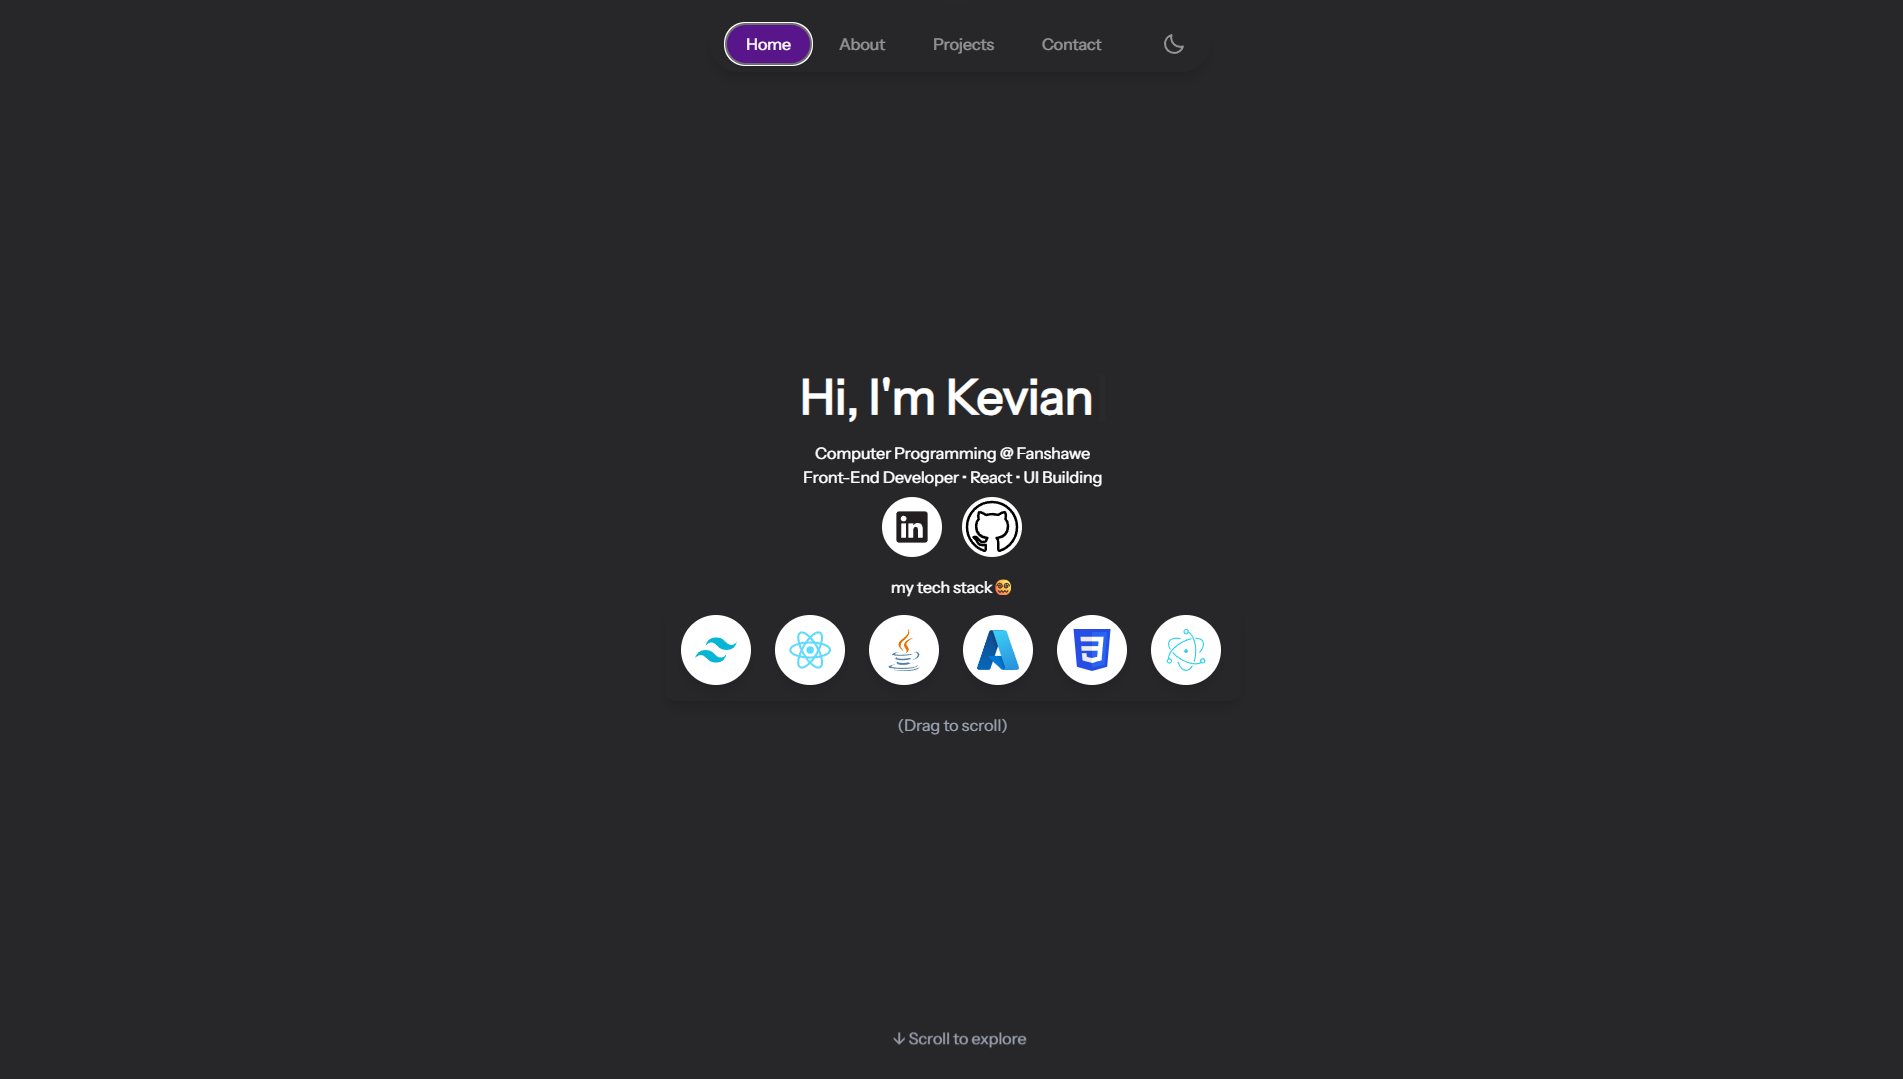
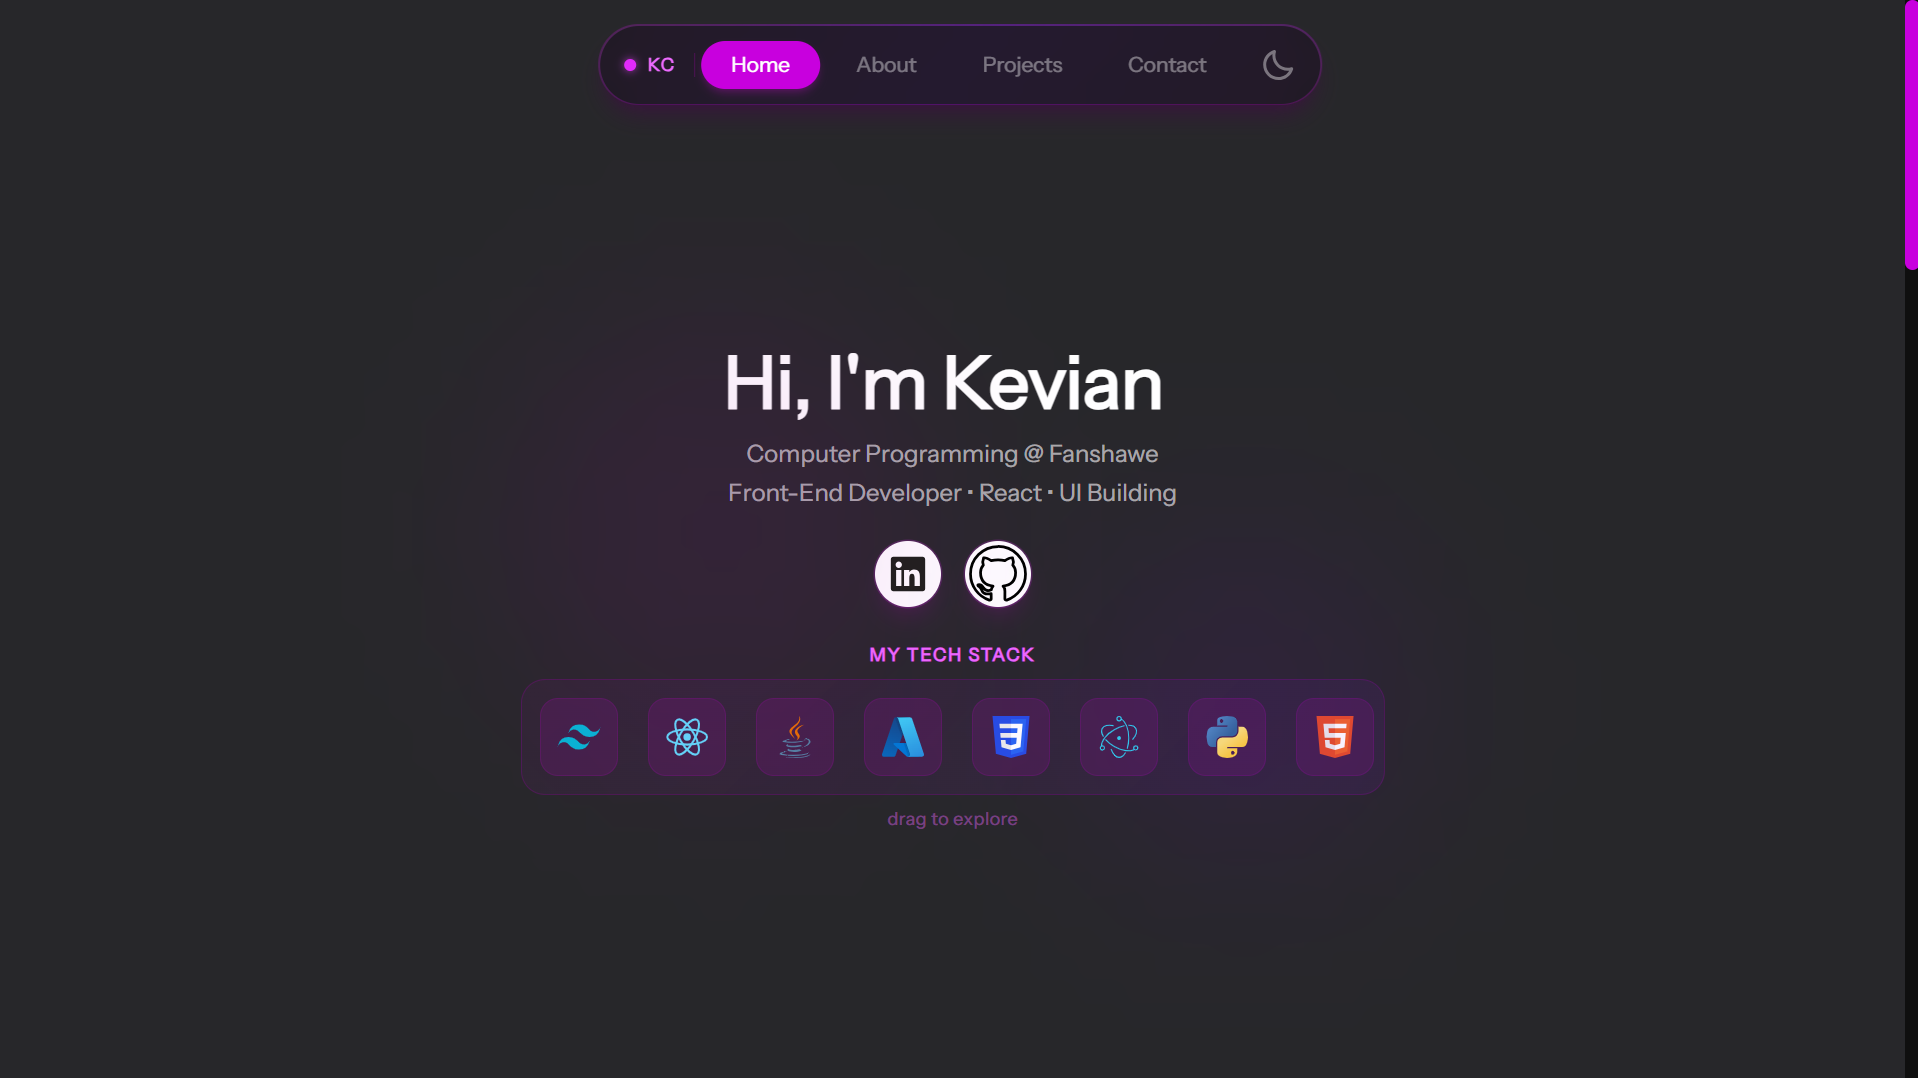
fixed techstack issues and updated pictures

diff --git a/src/components/Content.jsx b/src/components/Content.jsx
@@ -11,10 +11,24 @@ import linkedin from "/linkedin.svg"
 import github from "/github.svg"
 
 function Content({ themeClass, modeSelected, menuSelected, setMenuSelected, setModeSelected }) {
-    const isMobile = window.innerWidth < 1024
     const x = useMotionValue(0)
     const containerRef = useRef(null)
-    const limit = isMobile ? -1300 : -1050
+
+
+    const innerRef = useRef(null)
+    const [limit, setLimit] = useState(-1050)
+
+    useEffect(() => {
+        const calculate = () => {
+            if (containerRef.current && innerRef.current) {
+                setLimit(-(innerRef.current.scrollWidth - containerRef.current.offsetWidth))
+            }
+        }
+
+        setTimeout(calculate, 100)
+        window.addEventListener("resize", calculate)
+        return () => window.removeEventListener("resize", calculate)
+    }, [])
 
     const icons = [
         "tailwindcss", "react", "java", "azure", "css3",
@@ -89,7 +103,6 @@ function Content({ themeClass, modeSelected, menuSelected, setMenuSelected, setM
                     transition={{ duration: 0.5, delay: 0.4 }}
                     className="flex flex-col items-center gap-2 text-center"
                 >
-                    <p className="text-fuchsia-400 text-xs tracking-widest uppercase font-semibold">welcome to my portfolio</p>
                     <h1 className="text-3xl sm:text-5xl font-bold">
                         <Typewriter
                             words={["Hi, I'm Kevian"]}
@@ -141,7 +154,7 @@ function Content({ themeClass, modeSelected, menuSelected, setMenuSelected, setM
                         style={{ background: "linear-gradient(135deg, #a21caf11, #6b21a822)" }}
                     >
                         <motion.div
-                            className="flex gap-5 cursor-grab active:cursor-grabbing"
+                            className="flex w-500 gap-5 cursor-grab active:cursor-grabbing"
                             drag="x"
                             dragConstraints={{ left: limit, right: 0 }}
                             style={{ x }}
@@ -151,7 +164,7 @@ function Content({ themeClass, modeSelected, menuSelected, setMenuSelected, setM
                                     key={i}
                                     href={iconLinks[icon]}
                                     target="_blank"
-                                    className="min-w-[52px] h-[52px] flex items-center justify-center rounded-xl bg-fuchsia-900/30 border border-fuchsia-700/20 hover:border-fuchsia-500/50 transition-colors"
+                                    className="min-w-13 h-13 flex items-center justify-center rounded-xl bg-fuchsia-900/30 border border-fuchsia-700/20 hover:border-fuchsia-500/50 transition-colors"
                                     whileHover={{ scale: 1.15, y: -2 }}
                                 >
                                     <StackIcon name={icon} className="w-7 h-7" />